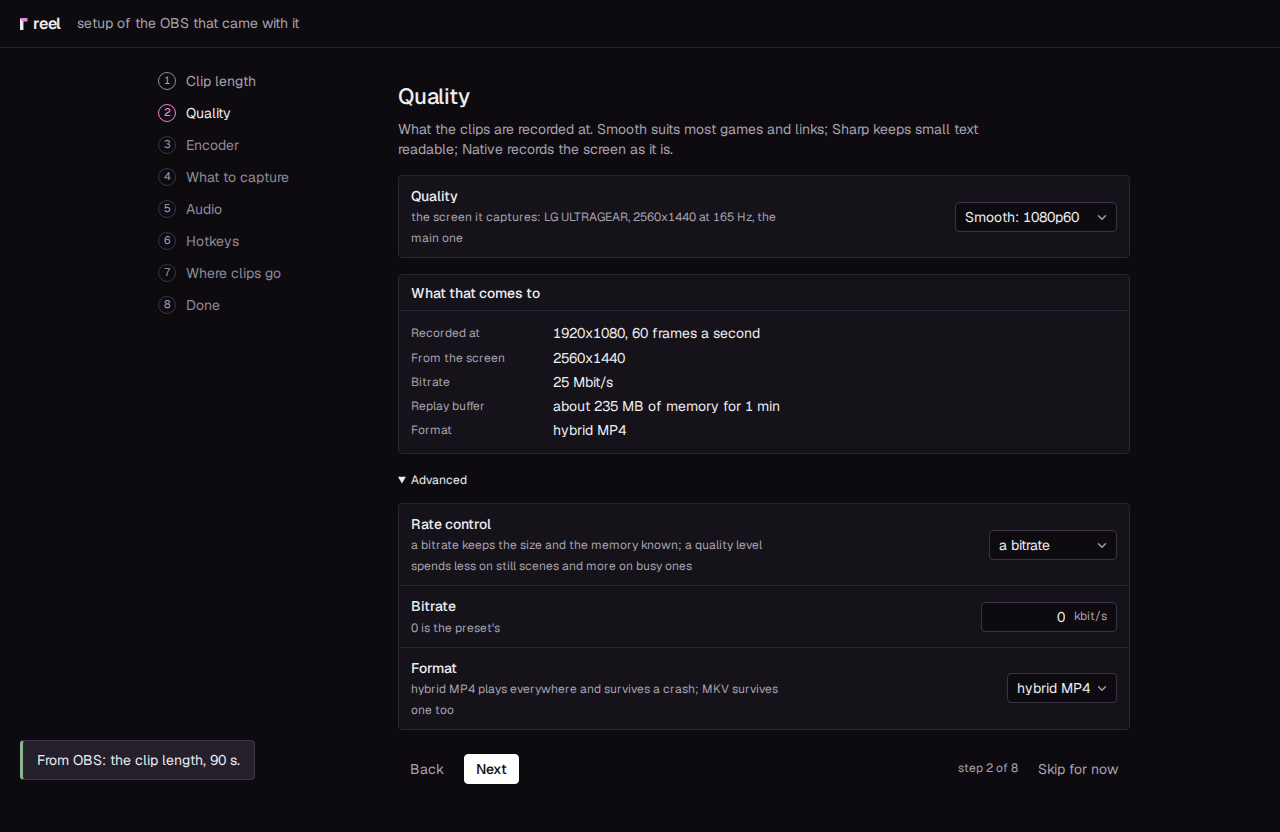
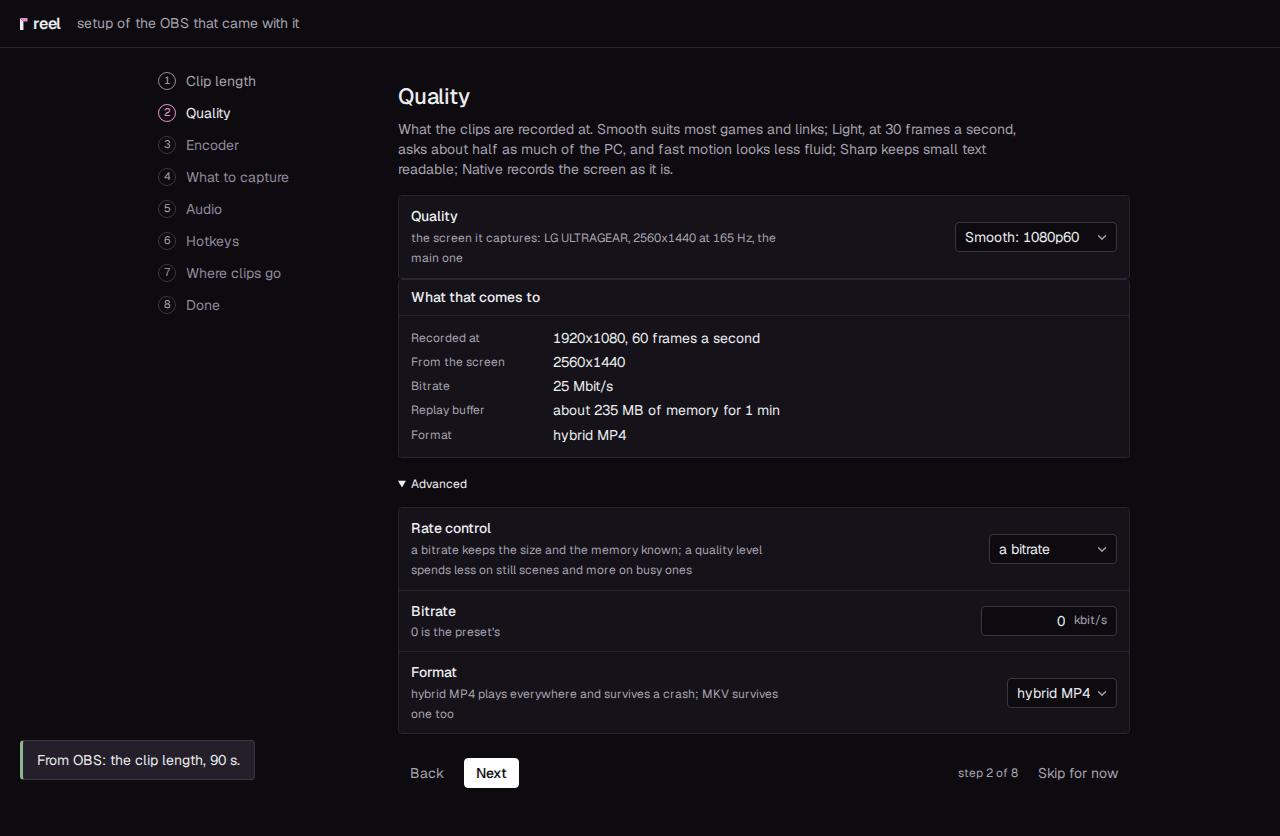
docs: the setup's pictures taken again: the choice, Quality, New versions and Done
The choice counts eight steps, Quality names Light, New versions is the
new step 8, and Done, now step 9, is app-setup-9-done.png.

diff --git a/docs/setup/all-in-one.md b/docs/setup/all-in-one.md
@@ -133,9 +133,11 @@ error appears.
    asks ([What leaves your PC](../privacy.md#what-leaves-your-pc)). With a server this step is
    not there: the server brings the app's updates.
 
+    ![New versions](img/app-setup-8-new-versions.png)
+
 9. **Done** shows a summary. Press **Finish**.
 
-    ![Done, the summary](img/app-setup-8-done.png)
+    ![Done, the summary](img/app-setup-9-done.png)
 
 When it worked, OBS starts with your setup, hidden (no window, no second tray icon), and the window
 opens on your library. From now on OBS starts and stops with the app. If one part could not be
